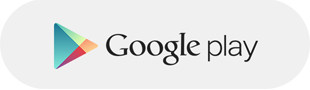
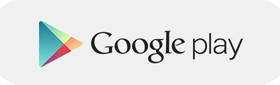
웹페이지 업데이트(첫화면header 변경)

Changed region(s): [[0.1143, 0.2353, 0.8857, 0.8]]

diff --git a/css/creative.css b/css/creative.css
@@ -16,7 +16,7 @@ body {
 /*바*/
 hr {
     max-width: 50px;
-    border-color: #1966cb;
+    border-color: #ffffff;
     border-width: 3px;
 }
 
@@ -30,6 +30,7 @@ a {
     -webkit-transition: all .35s;
     -moz-transition: all .35s;
     transition: all .35s;
+
 }
 
 a:hover,
@@ -46,15 +47,15 @@ h6 {
     font-family: "Helvetica Neue", "Apple SD Gothic Neo", "NanumGothic", "나눔고딕", "맑은 고딕", Arial
 
 }
-
+/*광고를 클릭해서 포인트를 모아주세요*/
 p {
     margin-bottom: 20px;
-    font-size: 16px;
+    font-size: 15px;
     line-height: 1.5;
 }
 
 .bg-primary {
-    background-color: #90cace;
+    background-color: #3694d2;
 }
 
 .bg-dark {
@@ -90,9 +91,13 @@ aside {
 .navbar-default .navbar-header .navbar-brand {
     /*text-transform: uppercase;*/
     font-family: 'Open Sans','Helvetica Neue',Arial,sans-serif;
-    font-weight:950;
-    color: #1966cb;
-    font-size: 20px;
+    font-weight:800;
+    float: left;
+    height: 50px
+    color: #3695d2;
+    font-size: 18px;
+    padding: 15px 15px;
+    line-height: 20px;
 }
 
 .navbar-default .navbar-header .navbar-brand:hover,
@@ -103,19 +108,19 @@ aside {
 .navbar-default .nav > li>a,
 .navbar-default .nav>li>a:focus {
   /*  text-transform: uppercase;*/
-    font-size: 13px;
+    font-size: 15px;
     font-weight: 700;
     color: #222; /*검정*/
 }
 
 .navbar-default .nav > li>a:hover,
 .navbar-default .nav>li>a:focus:hover {
-    color: #1966cb;
+    color: #3694d2;
 }
-
+/*현재 home or service or contact 색깔*/
 .navbar-default .nav > li.active>a,
 .navbar-default .nav>li.active>a:focus {
-    color: #1966cb!important;
+    color: #222!important;
     background-color: transparent;
 }
 
@@ -156,25 +161,25 @@ aside {
 /*작아 졌을떄 title의 ADlots*/
     .navbar-default.affix .navbar-header .navbar-brand {
         font-size: 18px;
-        color: #1966cb;
+        color: #3694d2;
     }
 
     .navbar-default.affix .navbar-header .navbar-brand:hover,
     .navbar-default.affix .navbar-header .navbar-brand:focus {
         color: #eb3812;
     }
-
+/*아래page기본 home service contact*/
     .navbar-default.affix .nav > li>a,
     .navbar-default.affix .nav>li>a:focus {
-        color: #222;
+        color: #a0dcf1;
     }
-
+/*아래page 마우스 올렸을떄*/
     .navbar-default.affix .nav > li>a:hover,
     .navbar-default.affix .nav>li>a:focus:hover {
-        color: #1966cb;
+        color: #222;
     }
 }
-
+/*hearder 부분 첫페이지 (Home)*/
 header {
     position: relative;
     width: 100%;
@@ -206,15 +211,18 @@ header .header-content .header-content-inner h1 {
 header .header-content .header-content-inner hr {
     margin: 30px auto;
 }
-/*실록있게 얻어가는 모바일 솔루션*/
+/*작아졌을때 - 작은 포인트도 우리에겐 소중하다*/
 header .header-content .header-content-inner p {
     margin-bottom: 50px;
-    font-size: 18px;
-    font-weight: 300;
+    font-size: 14px;
+    font-weight: 100;
     color: rgba(255,255,255,.7);
 }
 
 @media(min-width:768px) {
+  .intro-message > h1 {
+    font-size: 3em;
+}
     header {
         min-height: 100%;
     }
@@ -233,11 +241,12 @@ header .header-content .header-content-inner p {
         margin-left: auto;
         max-width: 1000px;
     }
-
+/*작은포인트도 우리에겐 소중하다*/
     header .header-content .header-content-inner p {
         margin-right: auto;
         margin-left: auto;
         max-width: 80%;
+        font-weight: 500;
         font-size: 20px;
     }
 }
@@ -356,6 +365,7 @@ header .header-content .header-content-inner p {
     border-color: #ededed;
     color: #222;
     background-color: #f2f2f2;
+
 }
 
 .btn-default:active,
@@ -400,16 +410,16 @@ fieldset[disabled] .btn-default.active {
     transition: all .35s;
 
 }
-
+/*google play 버튼 커서가 올라갔을떄*/
 .btn-primary:hover,
 .btn-primary:focus,
 .btn-primary.focus,
 .btn-primary:active,
 .btn-primary.active,
 .open > .dropdown-toggle.btn-primary {
-    border-color: #ed431f;
-    color: #fff;
-    background-color: #1966cb;
+
+    color: none;
+    background-color: #fff ;
 }
 
 .btn-primary:active,
@@ -445,17 +455,17 @@ fieldset[disabled] .btn-primary.active {
     background-color: #fff;
 
     bottom: 0;
-    height: 37px;
+    height: 35px;
     margin-left: -63.5px;
     margin-bottom: 60px;
     background-image: url(../img/kakaoimg/btn_google_off.png);
-    background-size: contain;
+    background-size: contain
 
 }
 
 .btn {
     border: 0;
-    border-radius: 100px;
+    border-radius: 30px;
     /*text-transform: uppercase;*/
     font-family: 'Open Sans','Helvetica Neue',Arial,sans-serif;
     font-weight: 300;
@@ -489,11 +499,32 @@ img::-moz-selection {
 body {
     webkit-tap-highlight-color: #222;
 }
-
+/*아래 사업자번호있고 있는곳*/
 footer {
   padding: 100px;
   background-color: #191d20;
   color: #C5C6C7;
-  text-align:center;
+  text-align:center;;
   font-size: 0.75em;
+
+}
+#sns{
+  float: center;
+  margin: 0 auto;
+}
+#footer_logo{
+  width: 150px;
+  float: left;
+}
+.gmap-area .gmap iframe{
+  height: 280px
+  width: 40%;
+  margin: 0 auto;
+  text-align: center;
+}
+
+#gmap{
+
+  margin: 0 auto;
+  text-align: center;
 }

diff --git a/index.html b/index.html
@@ -46,7 +46,8 @@
                     <span class="icon-bar"></span>
                     <span class="icon-bar"></span>
                 </button>
-                <a class="navbar-brand page-scroll" href="#page-top">ADLOT$</a>
+
+                <a class="navbar-brand page-scroll" href="#">ADLOTS</a>
             </div>
 
             <!-- Collect the nav links, forms, and other content for toggling -->
@@ -72,11 +73,11 @@
         <div class="header-content">
           <p style="padding-top: 26px;"></p>
             <div class="header-content-inner">
-                <h1>경품 리워드 어플리케이션</br></br>애드랏츠(ADlots)</h1>
+                <h1>광고에 '같이'를 더하다</br></br>애드랏츠 ADLOTS </h1>
                 <hr>
                 <p>작은 포인트도 우리에겐 소중하다!</p>
                 <a href="https://play.google.com/store/apps/details?id=com.adlots.adlots" class="btn btn-primary btn-xl page-scroll" target="_blank">
-                  <img src="img/btn_google2.png"></a>
+                  <img src="img/btn_google2.png" width="100%"></a>
             </div>
         </div>
     </header>
@@ -85,7 +86,7 @@
         <div class="container">
             <div class="row">
                 <div class="col-lg-12 text-center">
-                    <h2 class="section-heading">ADlots Service</h2>
+                    <h2 class="section-heading">What is ADlots?</h2>
                     <hr class="primary">
                 </div>
             </div>
@@ -248,9 +249,10 @@
                 </div>
                 <div class="col-lg-4 text-center">
                     <i class="fa fa-envelope-o fa-3x wow bounceIn" data-wow-delay=".1s"></i>
-                    <p><a href="mailto:your-email@your-domain.com">adlots@naver.com</a></p>
+                    <p><a href="mailto:adlots@naver.com">adlots@naver.com</a></p>
                 </div>
-                <div class="footer">
+
+                <div class="footer" id="sns">
                   <p>
                     <h5>
                     블로그
@@ -269,6 +271,12 @@
                   </p>
 
                 </div>
+
+                      <div id="gmap">
+                        <iframe  frameborder="0" scrolling="no" marginheight="0" marginwidth="0" src="https://www.google.com/maps/embed?pb=!1m18!1m12!1m3!1d2728.876750224269!2d129.18784272461602!3d35.57346378861907!2m3!1f0!2f0!3f0!3m2!1i1024!2i768!4f13.1!3m3!1m2!1s0x35662fd1610bf9e5%3A0x6fba45de1824ac69!2zVU5JU1Qo7Jq47IKw6rO87ZWZ6riw7Iig7JuQKQ!5e0!3m2!1sko!2sus!4v1461464628712" width="400" height="300" frameborder="0" style="border:1" ></iframe>
+                </div>
+
+
             </div>
         </div>
     </section>
@@ -290,13 +298,17 @@
     <script src="js/creative.js"></script>
 
 <footer>
-
-<p>
-  <h6>상호명 : 애드랏츠 주식회사/ 대표자 : 백경인 / 사업자등록번호 620-13-56399<br></br>
-사업자정보확인 : 울산광역시 울주군 언양읍 유니스트길 50<br></br>
-Copyright © 2015- adlots Inc. All rights reserved.
-</h6>
-</p>
+  <div id="footer_logo" class>
+    <a href = "http://adlots.co.kr" traget="_blank">
+      <img src="img/adlots.png" width="100" height="100" alt="adlots_logo">
+    </a>
+  </div>
+  <p>
+    <h6> 대표자 : 백경인<br> 상호명 : 애드랏츠 주식회사 <br> 사업자등록번호 620-13-56399<br></br>
+    사업자정보확인 : 울산광역시 울주군 언양읍 유니스트길 50<br></br>
+    Copyright © 2015- adlots Inc. All rights reserved.
+    </h6>
+  </p>
 
 
 </footer>
